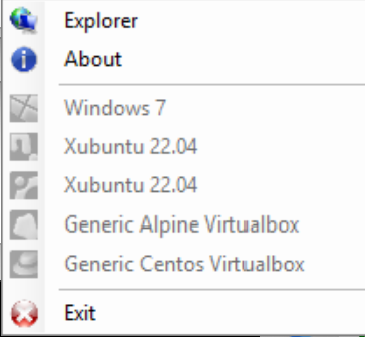
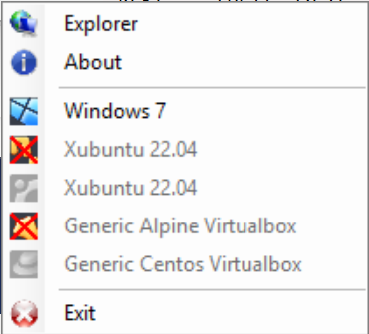
intermediate revision - show "misconfigured" and "powered down" as two differnt kind of "disabled"

diff --git a/external/csharp/basic-virtualbox-longrunningcommand/Utils/CustomDisabledIconRenderer.cs b/external/csharp/basic-virtualbox-longrunningcommand/Utils/CustomDisabledIconRenderer.cs
@@ -26,7 +26,21 @@ namespace Utils {
 				else {
 					Debug.WriteLine(String.Format("Image size: {0} ImageRectangle: {1} ", e.Image.Size, e.ImageRectangle));
 					using (var scaledBitmap = new Bitmap(e.Image, e.ImageRectangle.Width, e.ImageRectangle.Height)) {
-						ControlPaint.DrawImageDisabled( e.Graphics, scaledBitmap, e.ImageRectangle.X, e.ImageRectangle.Y, e.Item.BackColor);
+						
+						
+						// create a Graphics object to modify the image
+						using (Graphics graphics = Graphics.FromImage(scaledBitmap)) {
+							using (var pen = new Pen(Color.Red, 2)) {
+								graphics.DrawLine(pen, 0, e.ImageRectangle.Height, e.ImageRectangle.Width,  0 );
+								graphics.DrawLine(pen, 0, 0, e.ImageRectangle.Width, e.ImageRectangle.Height);
+							}						
+						}
+						// https://learn.microsoft.com/en-us/dotnet/api/system.drawing.graphics.drawimage?view=netframework-4.5
+						e.Graphics.DrawImage(scaledBitmap, e.ImageRectangle.X, e.ImageRectangle.Y, e.ImageRectangle.Width, e.ImageRectangle.Height);
+
+						// https://learn.microsoft.com/en-us/dotnet/api/system.windows.forms.controlpaint?view=netframework-4.5
+						// ControlPaint.DrawImageDisabled(e.Graphics, e.Image, e.ImageRectangle.X, e.ImageRectangle.Y, e.Item.BackColor);
+
 					}
 				}
 				// Will dispose the temporary bitmap automatically